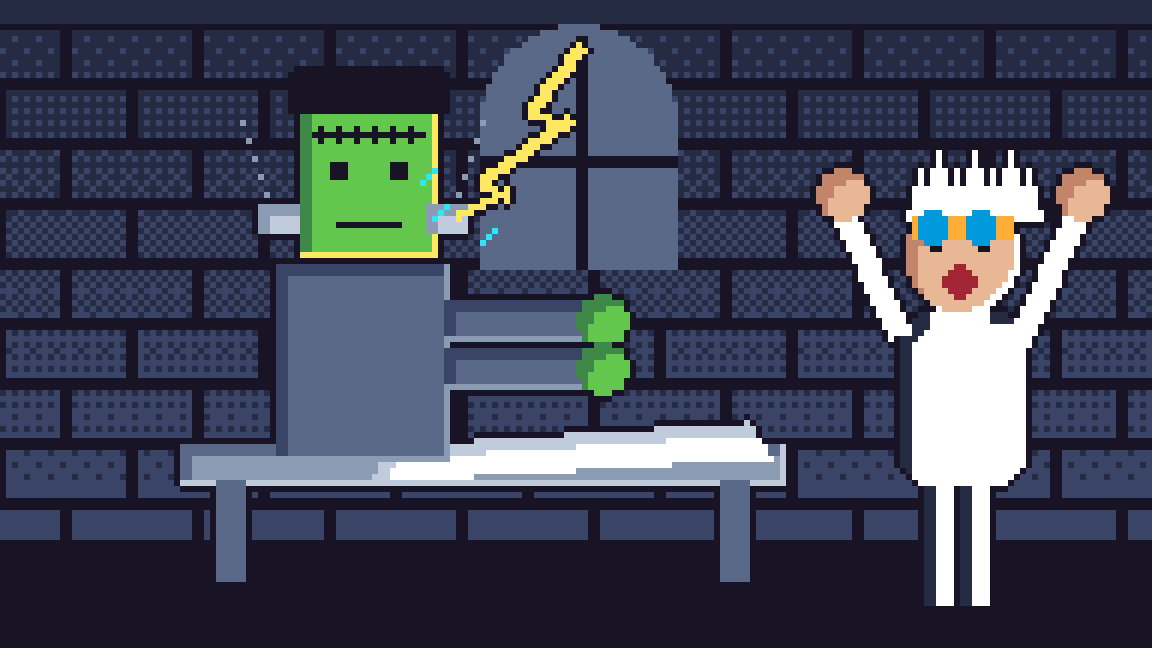
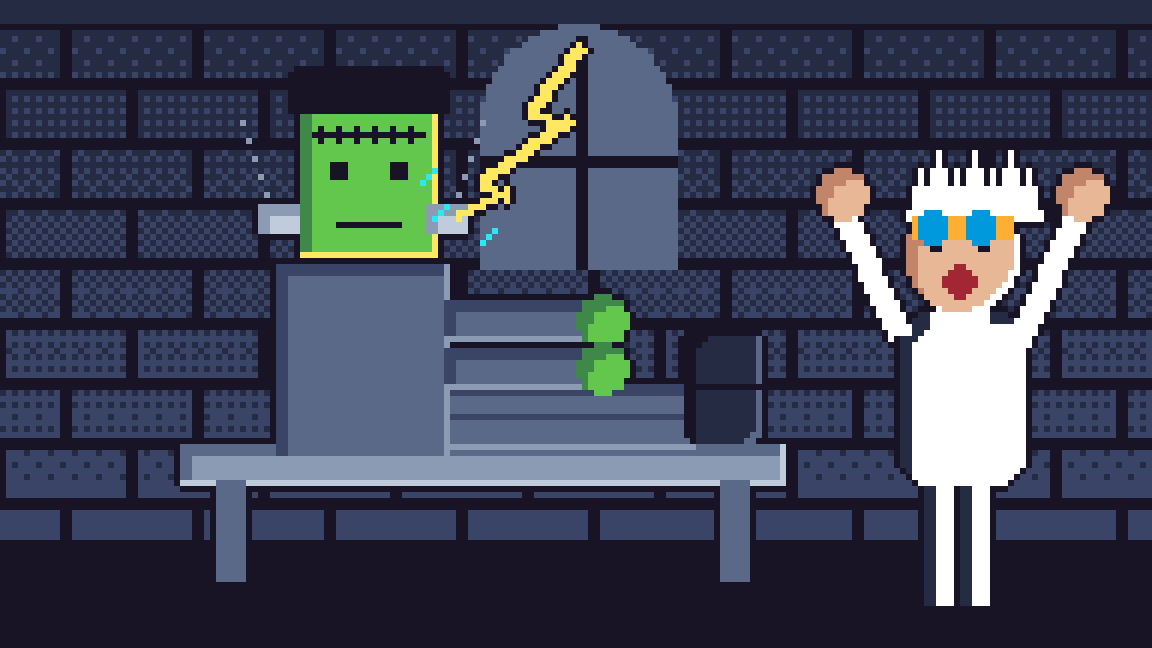
Pixel art: Frankenstein's monster gets his legs and boots along the slab; Rage Bait an angry fish lunging at a worm on a hook (an underwater background); Russian Roulette's skull centred in its slice. The replaced pictures kept in ArtArchive

Changed region(s): [[0.3125, 0.4938, 0.6875, 0.7407]]

diff --git a/Tools/pixel_art.py b/Tools/pixel_art.py
@@ -2606,35 +2606,37 @@ def ship_of_theseus():
 def rage_bait():
     img = layer()
     d = ImageDraw.Draw(img)
-    # A furious face lit red from below by the phone, the red notification reflected in both eyes
-    for ex in (40, 130):  # Ears
-        shape(img, lambda dr, v: dr.ellipse([ex - 6, 40, ex + 6, 62], fill=v), C["skin"], C["skin_dark"])
-    shape(img, lambda dr, v: dr.ellipse([40, 4, 130, 116], fill=v), C["skin"], C["red"], None, (0, 1), 3)
-    shape(img, lambda dr, v: dr.chord([40, 0, 130, 40], 180, 360, fill=v), C["dark_brown"], C["plum"])  # Hair
-    d.line([(98, 16), (102, 24), (98, 30)], fill=C["purple"] + (255,), width=2)  # A vein on the temple
-    d.line([(102, 24), (108, 26)], fill=C["purple"] + (255,), width=2)
-    d.polygon([(52, 32), (80, 40), (80, 44), (52, 37)], fill=C["ink"] + (255,))  # Brows in a hard V
-    d.polygon([(118, 32), (90, 40), (90, 44), (118, 37)], fill=C["ink"] + (255,))
-    for ex in (66, 104):  # Wide eyes, the red notification in each
-        d.ellipse([ex - 10, 44, ex + 10, 56], fill=C["white"] + (255,), outline=C["ink"] + (255,))
-        d.ellipse([ex - 4, 46, ex + 4, 54], fill=C["ink"] + (255,))
-        d.ellipse([ex - 2, 48, ex + 1, 51], fill=C["hot"] + (255,))
-    d.line([(85, 52), (82, 68), (88, 70)], fill=C["skin_dark"] + (255,))  # The nose, nostrils flared
-    d.arc([76, 64, 84, 72], 90, 270, fill=C["skin_dark"] + (255,))
-    d.arc([88, 64, 96, 72], 270, 90, fill=C["skin_dark"] + (255,))
-    d.rectangle([66, 80, 104, 92], fill=C["white"] + (255,), outline=C["ink"] + (255,))  # Gritted teeth
-    d.line([66, 86, 104, 86], fill=C["ink"] + (255,))
-    for x in range(72, 104, 6):
-        d.line([x, 80, x, 92], fill=C["silver"] + (255,))
-    d.line([(60, 82), (64, 76)], fill=C["skin_dark"] + (255,))
-    d.line([(110, 82), (106, 76)], fill=C["skin_dark"] + (255,))
-    # The phone in the corner, its back to us, its red glow spilling round it
-    shape(img, lambda dr, v: dr.rounded_rectangle([140, 58, 176, H + 6], 5, fill=v), C["night"], C["ink"], C["slate"])
-    d.ellipse([146, 64, 152, 70], fill=C["slate"] + (255,))
-    shape(img, lambda dr, v: dr.ellipse([132, 80, 146, 98], fill=v), C["skin"], C["skin_dark"])
+    # The bait: a fat worm on a hook, dangling from the line
+    d.line([(150, 0), (150, 52)], fill=C["white"] + (255,))
+    d.arc([144, 52, 156, 66], 0, 200, fill=C["silver"] + (255,), width=2)
+    d.line([(156, 58), (156, 52)], fill=C["silver"] + (255,), width=2)
+    for k, (x, y) in enumerate(((148, 54), (152, 58), (149, 62), (153, 66), (150, 70))):
+        shape(img, lambda dr, v: dr.ellipse([x - 3, y - 3, x + 3, y + 3], fill=v), C["pink"], C["magenta"])
+    # The fish, furious, lunging at it: brows down, eye bulging, jaws wide, a vein popping
+    shape(img, lambda dr, v: dr.polygon([(16, 38), (40, 58), (16, 80), (24, 58)], fill=v), C["orange"], C["rust"], C["amber"])  # The tail
+    shape(img, lambda dr, v: dr.polygon([(62, 40), (80, 22), (96, 40)], fill=v), C["orange"], C["rust"])  # The dorsal fin, up
+    shape(img, lambda dr, v: dr.ellipse([32, 34, 132, 86], fill=v), C["red"], C["wine"], C["orange"], (1, 1), 3)
+    shape(img, lambda dr, v: dr.polygon([(64, 68), (80, 66), (70, 82)], fill=v), C["orange"], C["rust"])  # A side fin
+    for x in range(52, 104, 9):  # Scales
+        d.arc([x, 50, x + 8, 60], 270, 90, fill=C["wine"] + (255,))
+        d.arc([x + 4, 60, x + 12, 70], 270, 90, fill=C["wine"] + (255,))
+    d.polygon([(112, 54), (138, 44), (134, 60), (138, 74), (112, 66)], fill=C["ink"] + (255,))  # The open jaws
+    for x in range(116, 136, 4):
+        d.polygon([(x, 48 + (x - 112) // 6), (x + 2, 48 + (x - 112) // 6), (x + 1, 52 + (x - 112) // 6)], fill=C["white"] + (255,))
+        d.polygon([(x, 70 - (x - 112) // 6), (x + 2, 70 - (x - 112) // 6), (x + 1, 66 - (x - 112) // 6)], fill=C["white"] + (255,))
+    d.ellipse([98, 40, 112, 52], fill=C["white"] + (255,), outline=C["ink"] + (255,))  # The bulging eye
+    d.ellipse([104, 43, 109, 48], fill=C["ink"] + (255,))
+    d.polygon([(94, 36), (114, 42), (114, 45), (94, 40)], fill=C["ink"] + (255,))  # Its brow, down hard
     img = outline(img)
     d = ImageDraw.Draw(img)
-    d.rounded_rectangle([138, 56, 178, H + 8], 6, outline=C["hot"] + (255,))
+    d.line([(84, 26), (88, 30)], fill=C["hot"] + (255,), width=2)  # The anger mark
+    d.line([(92, 26), (88, 30)], fill=C["hot"] + (255,), width=2)
+    d.line([(84, 34), (88, 30)], fill=C["hot"] + (255,), width=2)
+    d.line([(92, 34), (88, 30)], fill=C["hot"] + (255,), width=2)
+    for k in range(3):  # Lunging: speed lines behind it, bubbles
+        d.line([2, 48 + k * 10, 12, 48 + k * 10], fill=C["white"] + (255,))
+    for x, y in ((140, 82), (146, 88), (142, 94)):
+        d.ellipse([x, y, x + 3, y + 3], outline=C["white"] + (255,))
     return img
 
 
@@ -2722,11 +2724,14 @@ def mummy():
 def frankenstein():
     img = layer()
     d = ImageDraw.Draw(img)
-    # The slab, the sheet over the monster's legs
+    # The slab
     shape(img, lambda dr, v: dr.rectangle([30, 74, 130, 80], fill=v), C["grey"], C["slate"], C["silver"])
     for lx in (36, 120):
         d.rectangle([lx, 80, lx + 4, 96], fill=C["slate"] + (255,))
-    shape(img, lambda dr, v: dr.polygon([(64, 74), (124, 70), (128, 76), (62, 80)], fill=v), C["white"], C["silver"])
+    shape(img, lambda dr, v: dr.rectangle([70, 64, 116, 74], fill=v), C["slate"], C["navy"], C["grey"])  # His legs along the slab
+    d.line([72, 69, 114, 69], fill=C["navy"] + (255,))
+    shape(img, lambda dr, v: dr.rounded_rectangle([114, 54, 126, 74], 3, fill=v), C["night"], C["ink"], C["slate"])  # Big boots, toes up
+    d.line([114, 64, 126, 64], fill=C["ink"] + (255,))
     # The monster sitting up: flat-topped, green, stitched, smoking neck bolts, arms out
     shape(img, lambda dr, v: dr.rectangle([46, 44, 74, 76], fill=v), C["slate"], C["navy"], C["grey"])  # A dark jacket
     shape(img, lambda dr, v: dr.rectangle([50, 14, 72, 42], fill=v), C["green"], C["dark_green"], C["yellow"])
@@ -2776,7 +2781,7 @@ def russian_roulette():
     for k in range(6):
         col = C["night"] if k == 1 else (C["red"] if k % 2 == 0 else C["white"])
         d.pieslice([cx - r, cy - r, cx + r, cy + r], k * 60 - 90, k * 60 - 30, fill=col + (255,))
-    sx, sy = cx + 15, cy - 8  # The skull, in the dark slice
+    sx, sy = cx + 18, cy - 1  # The skull, centred in the dark slice
     d.ellipse([sx - 5, sy - 5, sx + 5, sy + 4], fill=C["white"] + (255,))
     d.rectangle([sx - 3, sy + 3, sx + 3, sy + 6], fill=C["white"] + (255,))
     for ex in (sx - 2, sx + 2):
@@ -2914,7 +2919,7 @@ def perpetual_motion():
 CARDS += [
     ("Boomer", "vapor", boomer),
     ("ShipofTheseus", "state_sea", ship_of_theseus),
-    ("RageBait", "room_night", rage_bait),
+    ("RageBait", "underwater", rage_bait),
     ("TheWickerMan", "sunset_cliff", wicker_man),
     ("Mummy", "gallery", mummy),
     ("Frankenstein", "lab", frankenstein),
@@ -2924,6 +2929,31 @@ CARDS += [
     ("PerpetualMotionMachine", "room_day", perpetual_motion),
 ]
 BACKGROUNDS.update({"sunset_cliff": bg_sunset_cliff, "lab": bg_lab, "snow_domes": bg_snow_domes, "storm": bg_storm, "thumbnail": bg_thumbnail})
+
+
+def bg_underwater():
+    """Under the sea: blue deepening downward, light shafts from the surface, bubbles, weed on the sand."""
+    img = layer()
+    gradient(img, [C["sky"], C["blue"], C["navy"]], 0, 96)
+    px = img.load()
+    for x0 in (30, 90, 150):  # Light shafts slanting down
+        for y in range(0, 90):
+            for x in range(x0 + y // 3, x0 + y // 3 + 10 - y // 12):
+                if 0 <= x < W and BAYER[y % 4][x % 4] < 4:
+                    px[x, y] = C["cyan"] + (255,)
+    d = ImageDraw.Draw(img)
+    gradient(img, [C["tan"], C["brown"]], 96, H)
+    rnd = random.Random(127)
+    for x in range(4, W, 16):  # Weed
+        h = rnd.randint(10, 26)
+        d.line([(x, H), (x + 3, H - h // 2), (x, H - h)], fill=rnd.choice((C["dark_green"], C["forest"])) + (255,), width=2)
+    for _ in range(14):
+        x, y = rnd.randrange(W), rnd.randrange(10, 90)
+        d.ellipse([x, y, x + 2, y + 2], outline=C["cyan"] + (255,))
+    return img
+
+
+BACKGROUNDS["underwater"] = bg_underwater
 
 
 def main():

diff --git a/Tools/art_briefs.py b/Tools/art_briefs.py
@@ -90,6 +90,9 @@ USER_NOTES = {
                         "splitting, a man at the lever, one person tied on one branch and five on the other.",
                         "2026-10-14: the man at the lever stands back from the tracks, beyond the split, never between them."],
     "Script Kiddie": ["2026-10-14 (pixel art): a baby sitting in that gaming chair, looking towards us; the rest as it was."],
+    "Frankenstein": ["2026-10-14 (pixel art): it was missing the monster's legs."],
+    "Rage Bait": ["2026-10-14 (pixel art): an angry fish going for a bait."],
+    "Russian Roulette": ["2026-10-14 (pixel art): the skull centred in its slice."],
     "Hollowed-Out Volcano Lair": ["2026-10-14 (pixel art): like the You Only Live Twice set (the user's still): inside the "
                                   "crater, the round opening to the sky, a helicopter, the rocket in its gantry, the helipad, "
                                   "the world map, the control room, the crew in their jumpsuits and white helmets."],
